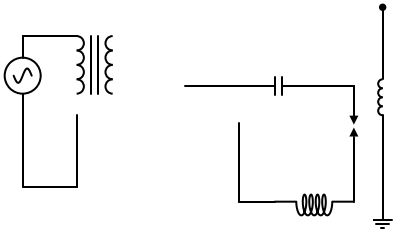
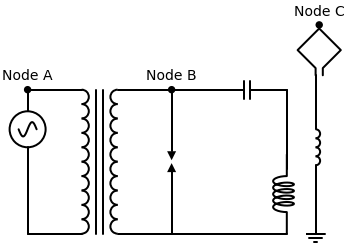
we did this (ksenia and alex)

Changed region(s): [[0.0, 0.0, 1.0, 0.9914]]

diff --git a/CircuitTester.py b/CircuitTester.py
@@ -6,7 +6,6 @@ import pandas as pd
 import schemdraw
 import schemdraw.elements as e
 
-#https://schemdraw.readthedocs.io/en/stable/elements/electrical.html
 #Background Color
 st.markdown(
     """
@@ -20,55 +19,39 @@ st.markdown(
 )
 
 # Shows the tesla coil circuit for demonstration purposes 
-st.image("1000002237.jpg", caption="Tesla Coil Circuit Diagram")
-
-# Create a simple RC circuit
 with schemdraw.Drawing() as d:
 
     d.config(unit=2.2)
 
     #Power supply
-    d += e.SourceSin().at((0,0)).label("AC")
-    d+= e.Line().right().length(1.5)
+    d += e.SourceSin().at((0,0))
+    d += e.Dot().label("Node A")
+    d += e.Line().right().length(1.5)
     #Add the transformer
-    d += e.Transformer(t1=4, t2=4).anchor("p1")
-    d += e.Line().at((1.5,0)).to((1.5, -2))
-    d += e.Line().at((0, -2)).to((1.5, -2))
-    d += e.Line().at((0, -2)).up().length(2)
+    d += e.Transformer(t1=10, t2=10).anchor("p1")
+    d += e.Line().at((0, -1.8)).to((1.5, -1.8))
+    d += e.Line().at((0, -1.8)).up().length(2)
 
     #Start the second part of the loop
-    d += e.Line().at((4.5, 0.8)).right().length(1.5)
-    d += e.Capacitor().right()
+    d += e.Line().at((2.5, 2.2)).right().length(1.5)
+    d += e.Dot().label("Node B")
     d += e.Line().right().length(1)
+    d += e.Capacitor().right()
+    
     #Spark gap
-    d += e.SparkGap().down()
-    d += e.Line().down().length(1)
+    d += e.Line().at((2.5, -1.8)).right().length(1.5)
+    d += e.SparkGap().up().length(4)
+    d += e.Line().at((4,-1.8)).right().length(3.2)
     #Coil
-    d += e.Inductor2().left()
-    d += e.Line().left().length(1)
-    d += e.Line().up().to((4.5, -0.8))
+    d += e.Inductor2().up()
+    d += e.Line().at((7.2,0)).length(2.2)
 
     #Right side
-    d += e.Inductor().at((10, -1.5)).up().length(4)
-    d += e.Line().at((10, -1.5)).down().length(1)
+    d += e.Inductor().at((8, 2.6)).down().length(4)
     d += e.Ground()
     #Torus
-    d += e.Line().at((10, 2.5)).up().length(0.5)
-    d += e.Dot()
-
-
-    #creates all of the parts of the circuit
-    """ source = d.add(e.SourceSin().down())
-    d += d.add(e.Line().right()) 
-    tr = d.add(e.Transformer().right())
-    d += d.add(e.Line().right()) """
-
-    #d += d.add(e.SparkGap().right())
-    #d += d.add(e.Capacitor().up())
-    #d += d.add(e.Inductor().right())
-    #d += d.add(e.Ground().down())
-    #d += d.add(e.Inductor().up())
-    #d += d.add(e.AntennaLoop().up())
+    d += e.AntennaLoop().at((8,2.6))
+    d += e.Dot().label("Node C").at((8.1,4))
 
     # Save to file
     d.save('circuit.png')